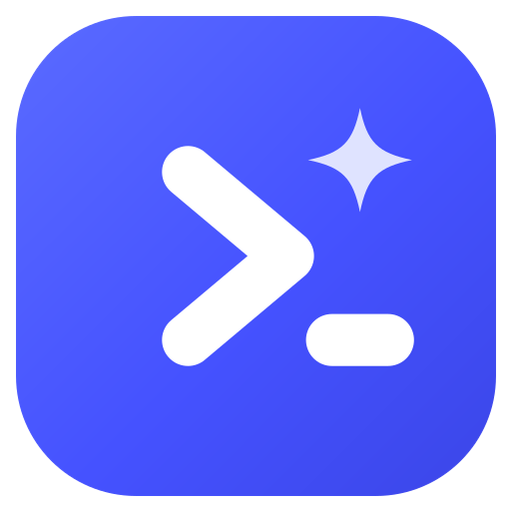
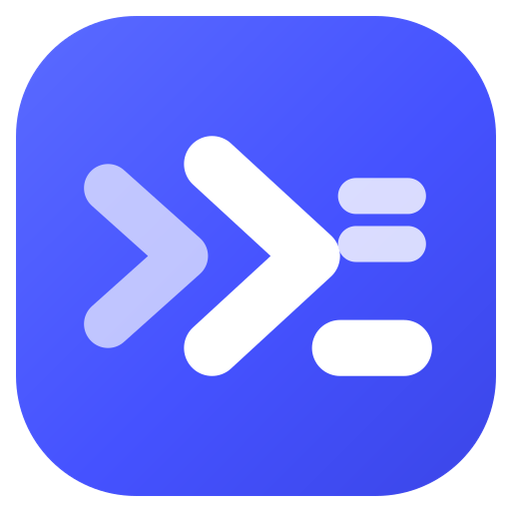
feat(brand): redraw the mark from the product essence
The terminal chevron plus generic AI sparkle could belong to any tool.
The new mark draws what PromptPerfect does, in reading order: the
prompt as given (a smaller, dimmed chevron), the same prompt returned
better (a larger, full-strength chevron with its cursor), and two
annotation strokes — the explanation that always comes with the
improvement. Contrasts computed from the tokens (5.38 / 4.01 / 3.16:1
over the gradient mid). All rasters regenerated from the masters with
npm run brand:assets. The guide records the derivation, the splash
system and the dual visual system.

Changed region(s): [[0.1562, 0.2188, 0.8438, 0.75], [0.5938, 0.5938, 0.8438, 0.75]]

diff --git a/src/components/brand/Logo.tsx b/src/components/brand/Logo.tsx
@@ -3,9 +3,13 @@ import { useId } from "react";
 /**
  * PromptPerfect brand mark — the single in-app source of the logo.
  * Master vector: public/brand/logo.svg (raster assets are generated from it
- * by scripts/brand/build-assets.mjs). The glyph is the terminal prompt
- * (chevron + underscore) with the optimization sparkle, on the brand
- * gradient tile built from the app accent (#4552ff family).
+ * by scripts/brand/build-assets.mjs). The glyph is the product's essence drawn literally: a dim, smaller
+ * chevron (the prompt as given) resolved into a larger, full-strength
+ * chevron with its cursor (the same prompt, returned better), carrying
+ * two short annotation strokes — the explanation that always comes with
+ * the improvement. On the brand gradient tile built from the app accent
+ * (#4552ff family). No generic sparkle: nothing here could belong to
+ * another app.
  */
 export function Logo({
   size = 28,
@@ -40,22 +44,43 @@ export function Logo({
       </defs>
       <rect x="2" y="2" width="60" height="60" rx="15" fill={`url(#${gradientId})`} />
       <path
-        d="M45 13.5c.9 4.3 2.2 5.6 6.5 6.5-4.3.9-5.6 2.2-6.5 6.5-.9-4.3-2.2-5.6-6.5-6.5 4.3-.9 5.6-2.2 6.5-6.5Z"
-        fill="#dfe3ff"
-      />
-      <path
-        d="M23.5 21.5 36 32l-12.5 10.5"
+        d="M13.5 23.5 23 32l-9.5 8.5"
         fill="none"
         stroke="#ffffff"
-        strokeWidth="6.5"
+        strokeOpacity={0.65}
+        strokeWidth="6"
         strokeLinecap="round"
         strokeLinejoin="round"
       />
       <path
-        d="M41.5 42.5h7"
+        d="M26.5 20.5 39 32l-12.5 11.5"
         fill="none"
         stroke="#ffffff"
-        strokeWidth="6.5"
+        strokeWidth="7"
+        strokeLinecap="round"
+        strokeLinejoin="round"
+      />
+      <path
+        d="M44.5 24.5h6.5"
+        fill="none"
+        stroke="#ffffff"
+        strokeOpacity={0.8}
+        strokeWidth="4.5"
+        strokeLinecap="round"
+      />
+      <path
+        d="M44.5 30.5h6.5"
+        fill="none"
+        stroke="#ffffff"
+        strokeOpacity={0.8}
+        strokeWidth="4.5"
+        strokeLinecap="round"
+      />
+      <path
+        d="M42.5 43.5h8"
+        fill="none"
+        stroke="#ffffff"
+        strokeWidth="7"
         strokeLinecap="round"
       />
     </svg>

diff --git a/src/components/brand/Logo.test.tsx b/src/components/brand/Logo.test.tsx
@@ -10,8 +10,8 @@ describe("Logo", () => {
     expect(svg?.getAttribute("width")).toBe("32");
     expect(svg?.getAttribute("height")).toBe("32");
     expect(svg?.getAttribute("aria-hidden")).toBe("true");
-    // Tile + sparkle + chevron + underscore
-    expect(container.querySelectorAll("path")).toHaveLength(3);
+    // Tile + prompt-as-given chevron + returned chevron + 2 annotation strokes + cursor
+    expect(container.querySelectorAll("path")).toHaveLength(5);
     expect(container.querySelector("rect")).not.toBeNull();
   });
 

diff --git a/docs/brand/IDENTIDAD-VISUAL.md b/docs/brand/IDENTIDAD-VISUAL.md
@@ -7,16 +7,30 @@ Ningún recurso de marca se edita a mano ni se enlaza desde fuera del repo.
 
 ## La marca
 
-El glifo es el prompt de terminal — chevron y guión bajo — con la chispa de
-optimización en la esquina superior: lo que la herramienta hace (tomar un
-prompt y perfeccionarlo) en un solo signo. La baldosa usa el gradiente de la
-familia del acento de la app (--accent: #4552ff): #5b6cff, #4552ff, #3a45e6,
-radio 15/64.
+El glifo nace de la esencia del proyecto — tomar un prompt y devolverlo
+mejor, explicando el porqué — y la dibuja literalmente, en orden de lectura:
+
+1. **El prompt tal como llega**: un chevron menor y atenuado (blanco al
+   65 %), el signo de prompt en su estado inicial.
+2. **El mismo prompt, devuelto mejor**: un segundo chevron mayor y a plena
+   fuerza, con su cursor — no es otro prompt, es el mismo, crecido.
+3. **La explicación que lo acompaña**: dos trazos breves de anotación junto
+   al prompt devuelto, porque en este producto ninguna mejora llega sin su
+   porqué.
+
+Nada en la marca es genérico ni intercambiable: la chispa decorativa de la
+primera versión se retiró el 2026-11-22 por no sostenerse desde esa esencia
+(era el signo universal de «IA», válido para cualquier app). La baldosa usa
+el gradiente de la familia del acento de la app (--accent: #4552ff):
+#5b6cff, #4552ff, #3a45e6, radio 15/64. Contrastes del glifo sobre el tono
+medio del gradiente, calculados desde los tokens: prompt devuelto 5,38:1;
+anotaciones 4,01:1; prompt inicial 3,16:1 (elemento gráfico grande, en su
+papel deliberadamente secundario).
 
 | Maestro | Uso |
 | --- | --- |
 | public/brand/logo.svg | Marca completa (baldosa + glifo) |
-| public/brand/logo-small.svg | Tamaños de 32 px o menos: sin chispa, trazo más grueso |
+| public/brand/logo-small.svg | Tamaños de 32 px o menos: solo el prompt devuelto, trazo más grueso |
 | public/brand/logo-mono.svg | Monocromo currentColor (hereda el color del contexto) |
 | public/brand/logo-maskable.svg | PWA maskable: baldosa a sangre completa, glifo en zona segura (80 %) |
 | public/brand/lockup.svg | Firma horizontal para fondos claros (texto #0b0d12) |
@@ -55,3 +69,45 @@ Legibilidad a tamaño mínimo verificada sobre el render real de 16 px
   16 px (con el maestro small).
 - La firma (lockup) no se reconstruye con otra tipografía: la oficial es
   Inter 700, la fuente de interfaz del producto.
+
+## Sistema visual dual (claro y oscuro)
+
+Un solo sistema de tokens semánticos (`src/app/globals.css`) con dos
+esquemas; ningún componente usa hex crudos para superficies, textos o
+bordes, así que ambas versiones son el mismo diseño en paridad estricta:
+
+- **Oscuro** (el original del producto, intacto): fondo `#050505`, texto
+  `#ececec`, acento `#4552ff`, texto de acento seguro `#8b93ff`.
+- **Claro** (derivado de la misma identidad): fondo papel `#f6f6f3`, texto
+  `#121216`, secundario `#45454e`, atenuado `#5c5c64`, tarjetas blancas,
+  bordes `#e2e2db`/`#cfcfc6`, acento `#4552ff` con texto de acento
+  `#3543d6`. Contrastes calculados desde los tokens: texto principal
+  ≈15:1, secundario ≈8:1, atenuado ≈5,9:1, acento como texto ≈6,4:1.
+
+Selección de esquema: script previo a la primera pintura en el layout raíz
+— elección guardada (`localStorage pp-theme`) → preferencia del sistema →
+oscuro por defecto — sin destello ni desplazamiento. Conmutador Sol/Luna en
+las cabeceras de landing y workspace. La extensión sigue el esquema del
+navegador con los mismos valores (`@media (prefers-color-scheme: light)` en
+su popup). El splash y los esqueletos usan los mismos tokens, así que la
+experiencia de carga también es dual.
+
+## Splash y estados de carga
+
+- Superficie de arranque: componente BootSplash (marca a 76 px sobre el fondo
+  #050505) servido por los loading.tsx de ruta; el workspace y la biblioteca
+  usan esqueletos que reproducen su layout final (cabecera fija de 56 px,
+  columnas del editor, lista de tarjetas) para que la llegada de datos no
+  desplace contenido.
+- Indicador honesto: barrido indeterminado con el gradiente de la marca,
+  nunca un porcentaje — la carga de una ruta no tiene progreso medible que
+  declarar. Nada de temporizadores: el router muestra el splash exactamente
+  mientras la ruta carga.
+- Movimiento: respiración suave de la marca y barrido de la barra; la regla
+  global de prefers-reduced-motion los deja estáticos.
+- Primera pintura: fondo desde CSS global desde el primer fotograma,
+  color-scheme oscuro declarado y theme-color #050505 en el viewport.
+- Extensión: el popup abre con su marca, un estado «cargando ajustes» y los
+  campos deshabilitados hasta que la configuración guardada está aplicada;
+  nunca muestra valores por defecto editables que un guardado pudiera
+  persistir sobre la configuración real.
